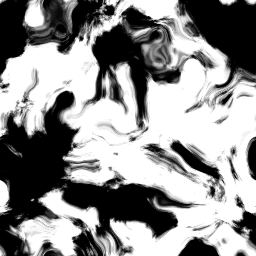
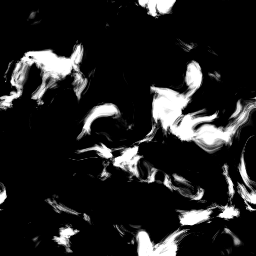
Refine targeting reticule energy effect

diff --git a/native/lispb/material/tests/material_tests.cpp b/native/lispb/material/tests/material_tests.cpp
@@ -136,7 +136,7 @@ TEST(MaterialFrontend, LowersWorldSurfaceSettingsInstanceDataAndOpacity) {
     EXPECT_TRUE(material.settings.two_sided);
     EXPECT_TRUE(material.settings.disable_depth_test);
     EXPECT_TRUE(material.settings.used_with_instanced_static_meshes);
-    ASSERT_EQ(material.parameters.size(), 13);
+    ASSERT_EQ(material.parameters.size(), 15);
     auto const filaments{
         std::ranges::find(material.parameters, "EnergyFilaments", &Parameter::name)};
     ASSERT_NE(filaments, material.parameters.end());
@@ -174,7 +174,7 @@ TEST(MaterialFrontend, LowersWorldSurfaceSettingsInstanceDataAndOpacity) {
     EXPECT_EQ(decoded->material.settings.domain, MaterialDomain::surface);
     EXPECT_EQ(decoded->material.settings.shading_model, ShadingModel::unlit);
     EXPECT_TRUE(decoded->material.settings.used_with_instanced_static_meshes);
-    EXPECT_EQ(decoded->material.parameters.size(), 13);
+    EXPECT_EQ(decoded->material.parameters.size(), 15);
     EXPECT_TRUE(std::ranges::any_of(decoded->material.nodes,
                                     [](Node const& node) { return node.kind == NodeKind::time; }));
 }

diff --git a/native/image/src/image_generation.cpp b/native/image/src/image_generation.cpp
@@ -711,10 +711,10 @@ auto make_energy_filaments_request() -> GenerationRequest {
                                             .warp_octave_count = 3,
                                             .persistence = 0.55f,
                                             .tileable = true};
-    energy_filaments.post_process = {.contrast = 1.8f,
+    energy_filaments.post_process = {.contrast = 1.5f,
                                      .threshold_enabled = true,
-                                     .threshold = 0.53f,
-                                     .threshold_softness = 0.22f};
+                                     .threshold = 0.72f,
+                                     .threshold_softness = 0.16f};
     return energy_filaments;
 }
 

diff --git a/native/image/tests/image_generation_tests.cpp b/native/image/tests/image_generation_tests.cpp
@@ -433,7 +433,7 @@ TEST(DomainWarpedNoiseGenerator, DefaultExamplesHaveStableChecksums) {
         if (request.output_name == TEXT("nebula_soft")) {
             expected_checksum = 1376257265u;
         } else if (request.output_name == TEXT("energy_filaments")) {
-            expected_checksum = 2606448723u;
+            expected_checksum = 2302176986u;
         } else if (request.output_name == TEXT("shield_turbulence")) {
             expected_checksum = 3121887609u;
         }
